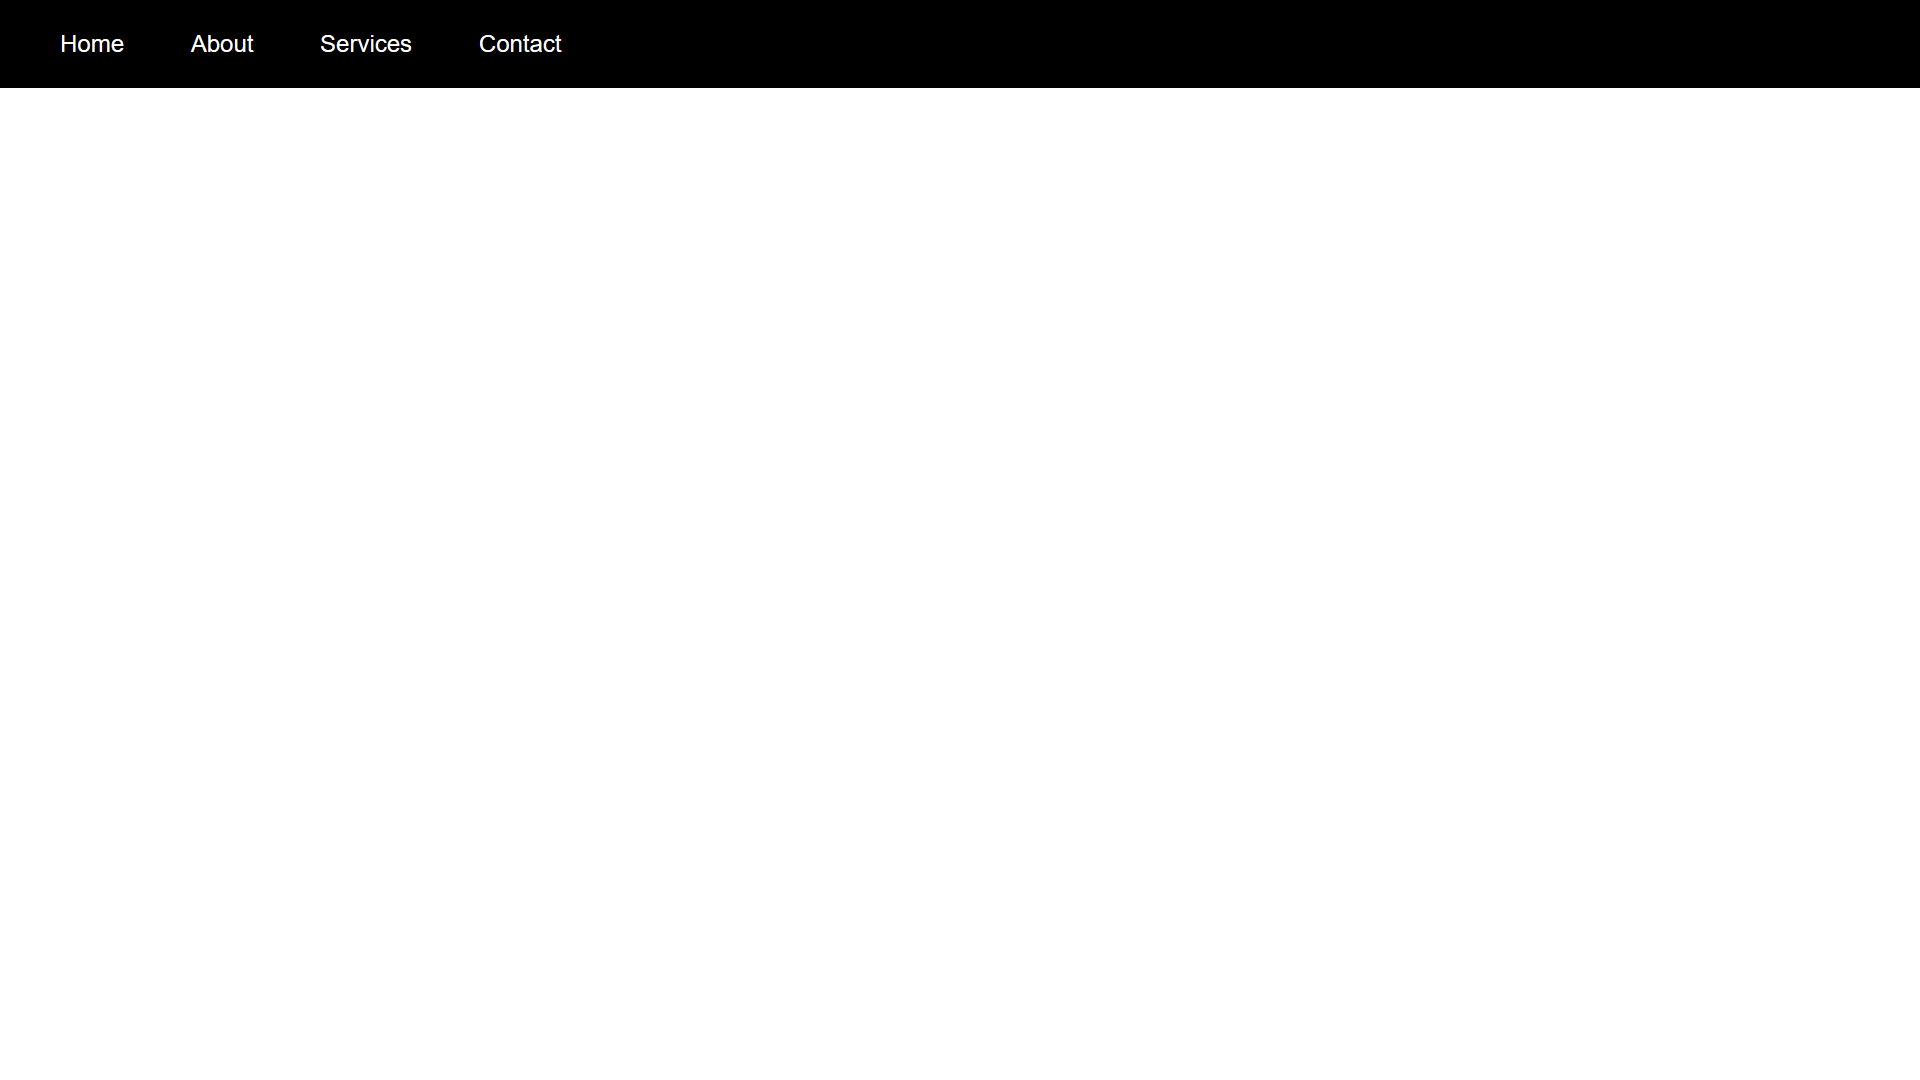
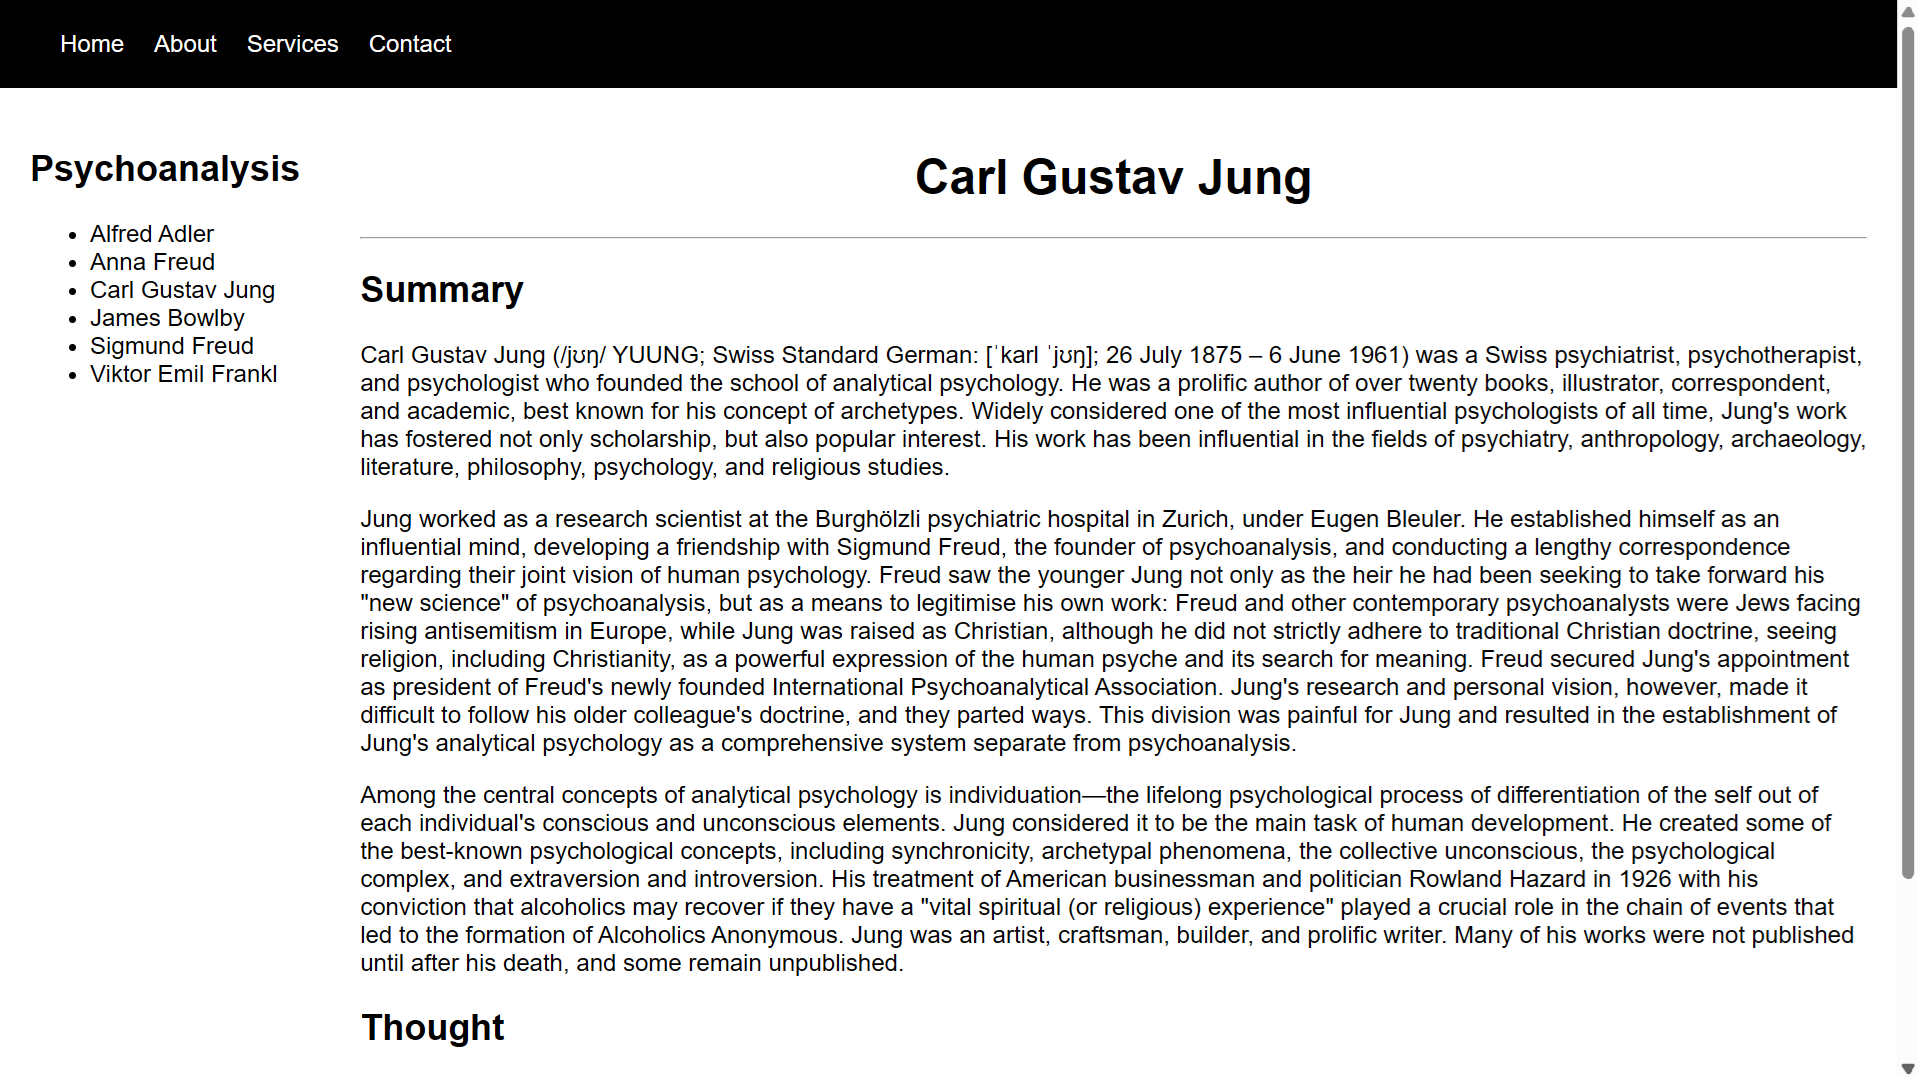
docs: change screenshoot image

diff --git a/style.css b/style.css
@@ -22,6 +22,10 @@ body {
         text-decoration: none;
         color: #ffffff;
     }
+
+    .aside {
+        display: none;
+    }
 }
 
 @media (width >= 768px) {
